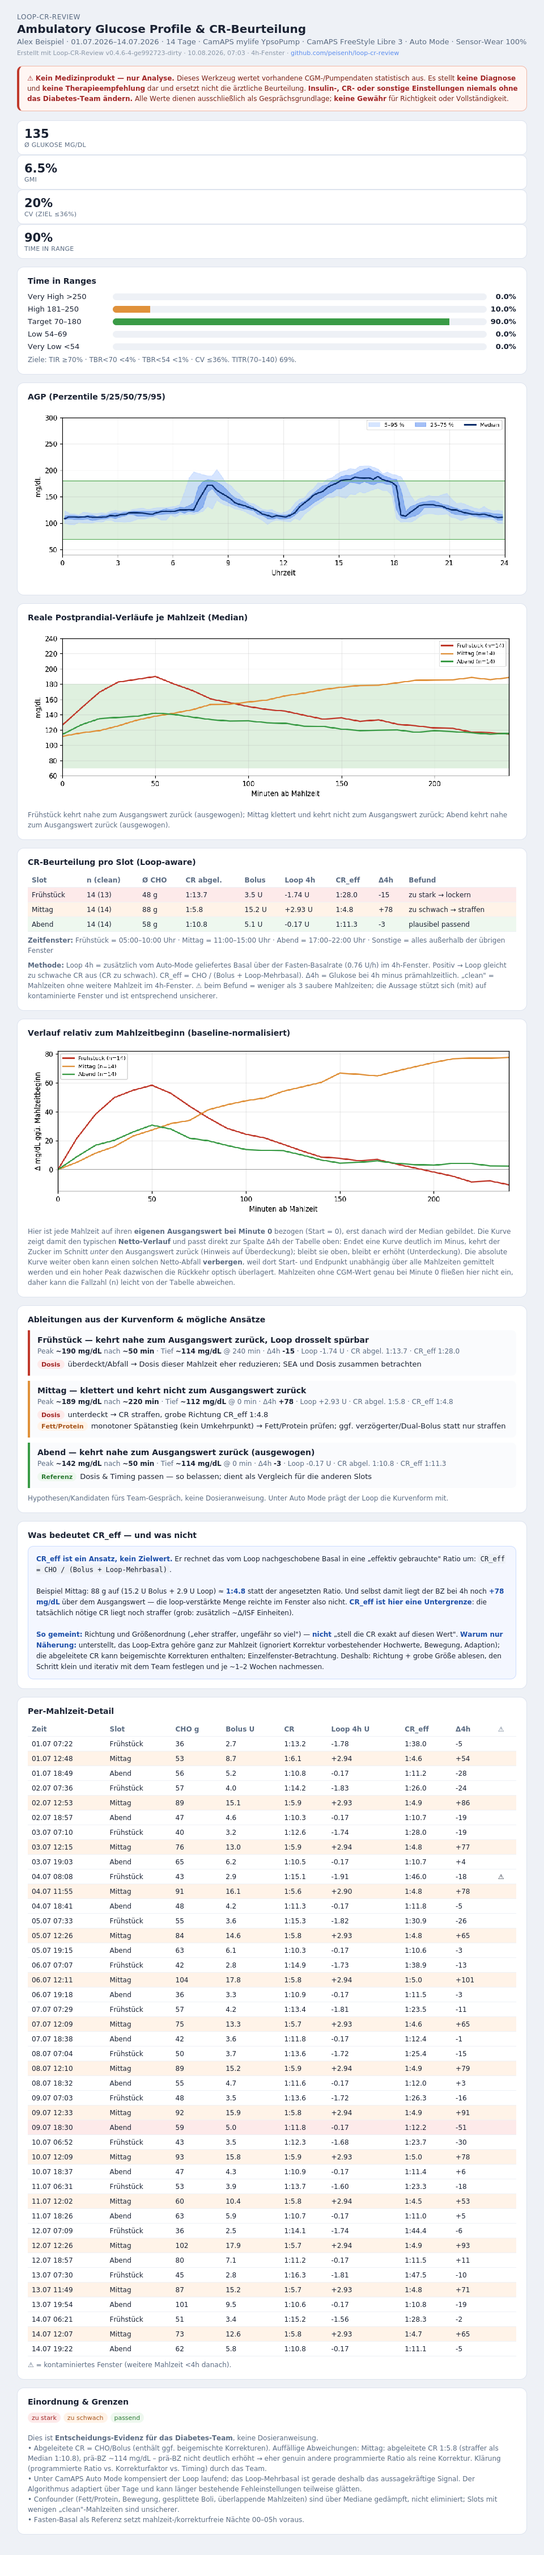
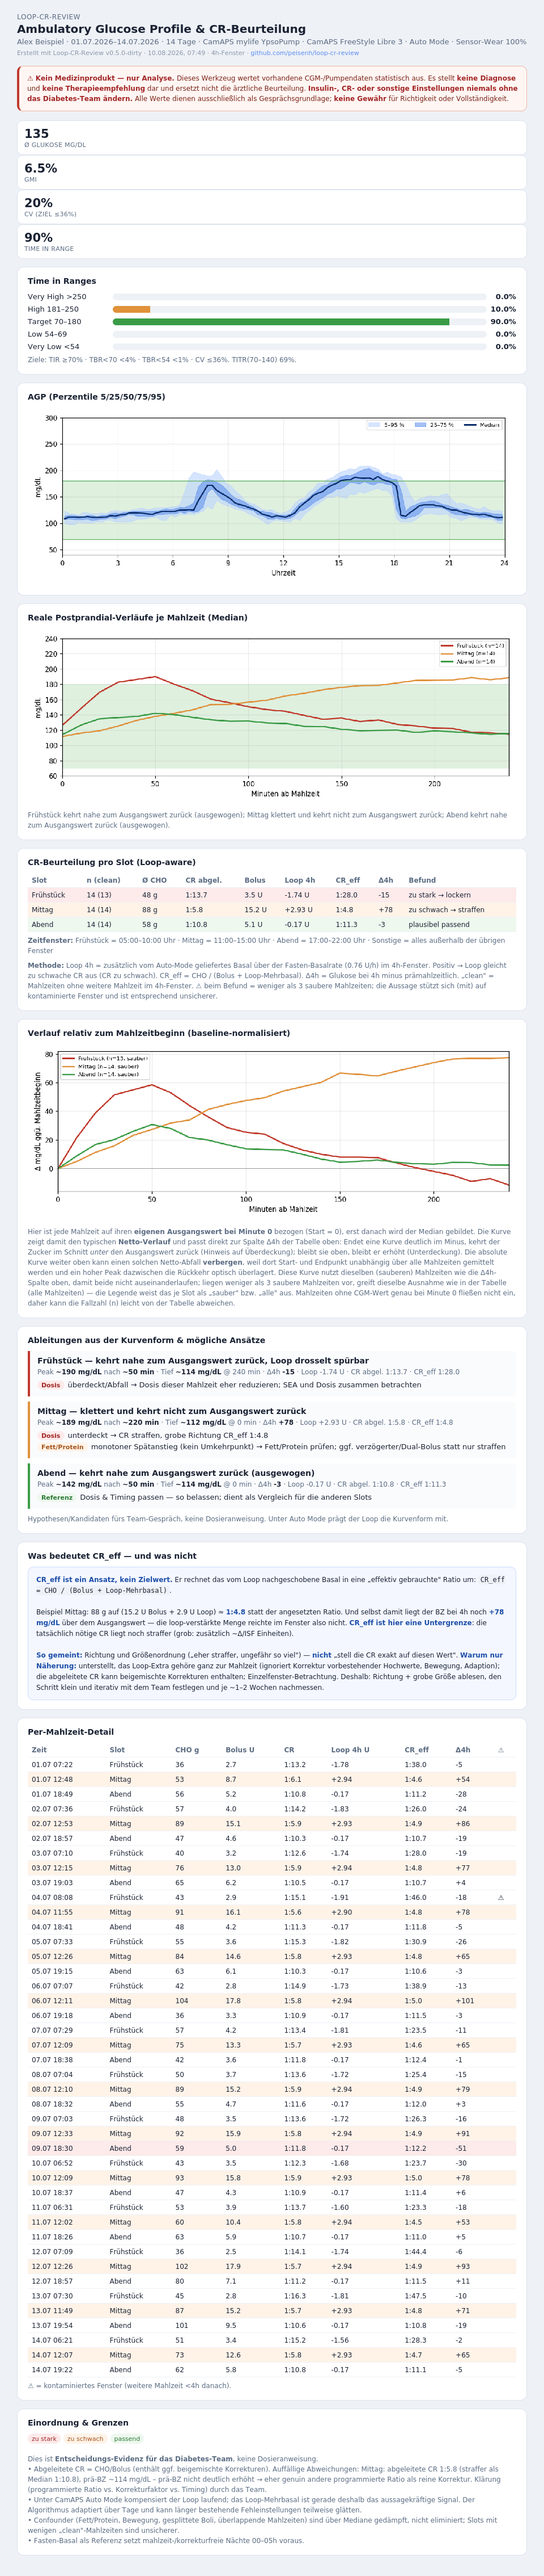
fix: normalized curve matches table's clean meals; legend shows data basis

diff --git a/loop_cr_review.py b/loop_cr_review.py
@@ -419,20 +419,27 @@ def slot_median_curve(meals, slot, window, val_at):
     return np.nanmedian(np.array(stacks), axis=0) if stacks else None
 
 
-def slot_norm_curve(meals, slot, window, val_at):
+def slot_norm_curve(meals, slot, window, val_at, clean_times=None):
     """Baseline-normalisierte Median-Kurve eines Slots (Start je Mahlzeit = 0).
 
     Jede Einzelmahlzeit wird auf ihren eigenen Ausgangswert bei t=0 bezogen,
     DANN wird der Median gebildet. Dadurch zeigt die Kurve den typischen Verlauf
     RELATIV zum Mahlzeitbeginn -- anders als die absolute Median-Kurve, deren
     Start und Ende unabhaengig aggregiert werden und einen echten Netto-Abfall
-    (Δ4h) verschlucken koennen. Mahlzeiten ohne Startwert (kein CGM bei t=0)
-    fallen raus. Rueckgabe: (kurve oder None, n verwendete Mahlzeiten).
+    (Δ4h) verschlucken koennen.
+
+    clean_times: optionale Menge von Mahlzeit-Startzeitpunkten. Wenn gesetzt,
+    werden NUR diese Mahlzeiten verwendet -- so nutzt die Kurve dieselbe
+    (kontaminationsbereinigte) Datengrundlage wie die Δ4h-Spalte der Tabelle und
+    kann ihr nicht widersprechen. Mahlzeiten ohne Startwert (kein CGM bei t=0)
+    fallen zusaetzlich raus. Rueckgabe: (kurve oder None, n verwendete Mahlzeiten).
     """
     grid = np.arange(0, window + 1, 10)
     rows = []
     for m in meals:
         if slot_of(m["time"].hour) != slot:
+            continue
+        if clean_times is not None and m["time"] not in clean_times:
             continue
         row = np.array([val_at(m["time"], int(g), 6) for g in grid], dtype=float)
         if np.isnan(row[0]):
@@ -607,21 +614,32 @@ def slot_curves_chart(meals, window, val_at):
     return fig_to_b64(fig)
 
 
-def slot_norm_curves_chart(meals, window, val_at):
+def slot_norm_curves_chart(meals, window, val_at, by_slot):
     """Baseline-normalisierte Median-Kurven je Slot als base64-PNG.
 
     Zeigt den Verlauf relativ zum Mahlzeitbeginn (Start = 0), macht damit den
     typischen Netto-Abfall/-Anstieg (Δ4h) sichtbar, den die absolute Kurve
-    verschlucken kann.
+    verschlucken kann. Nutzt pro Slot dieselbe kontaminationsbereinigte
+    Mahlzeitenauswahl wie die Δ4h-Tabelle (nur saubere Mahlzeiten; Fallback auf
+    alle, falls weniger als 3 saubere vorliegen), damit Kurve und Tabelle nicht
+    auseinanderlaufen.
     """
     grid = np.arange(0, window + 1, 10)
     fig, ax = plt.subplots(figsize=(10, 3.6))
     ax.axhline(0, color="#888", lw=1)
     for slot in MAIN_SLOTS:
-        curve, n = slot_norm_curve(meals, slot, window, val_at)
+        srows = by_slot.get(slot, [])
+        clean = [r for r in srows if not r["contam"]]
+        used = clean if len(clean) >= 3 else srows
+        clean_times = {r["time"] for r in used}
+        curve, n = slot_norm_curve(meals, slot, window, val_at, clean_times)
         if curve is not None:
+            # transparent machen, ob n saubere Mahlzeiten sind oder (Fallback bei
+            # weniger als 3 sauberen) alle -- sonst wirkt die Legende widerspruechlich
+            # zur "clean"-Spalte der Tabelle.
+            basis = "sauber" if len(clean) >= 3 else "alle"
             ax.plot(grid, curve, color=SLOT_COLOR[slot], lw=2,
-                    label=f"{SLOT_LABEL[slot]} (n={n})")
+                    label=f"{SLOT_LABEL[slot]} (n={n}, {basis})")
     ax.set_xlim(0, window)
     ax.set_xlabel("Minuten ab Mahlzeit")
     ax.set_ylabel("Δ mg/dL ggü. Mahlzeitbeginn")
@@ -821,7 +839,7 @@ def build_context(base, window, wlab, daily=False):
         "tir_bands": [{"label": lab, "val": f"{val:.1f}", "width": f"{min(val, 100):.1f}",
                        "color": col} for lab, val, col in tir_bands],
         "agp_img": agp_chart(times, gluc), "slot_img": slot_curves_chart(meals, window, val_at),
-        "slot_norm_img": slot_norm_curves_chart(meals, window, val_at),
+        "slot_norm_img": slot_norm_curves_chart(meals, window, val_at, by_slot),
         "daily_days": daily_charts(times, gluc, read_bolus_events(base), basal,
                                    read_tdd(base)) if daily else [],
         "curve_cap": curve_cap, "slots": _slots_context(by_slot), "meals": _meals_context(rows),

diff --git a/CHANGELOG.md b/CHANGELOG.md
@@ -7,6 +7,16 @@ das Projekt folgt [Semantic Versioning](https://semver.org/lang/de/).
 > Kein Medizinprodukt — nur Analyse. Keine Diagnose, keine Therapieempfehlung.
 
 ## [Unreleased]
+### Behoben
+- Baseline-normalisierte Kurve nutzt jetzt dieselbe kontaminationsbereinigte
+  Mahlzeitenauswahl wie die Δ4h-Spalte der Tabelle (nur saubere Mahlzeiten,
+  Fallback auf alle bei weniger als 3 sauberen). Vorher bezog die Kurve auch
+  kontaminierte Mahlzeiten ein und konnte der Tabelle dadurch widersprechen —
+  z. B. ein Slot mit „passend"-Befund, dessen Kurve tiefer abfiel als ein als
+  „zu stark" bewerteter Slot. Die Legende der normalisierten Kurve weist jetzt
+  je Slot aus, ob n saubere Mahlzeiten sind („sauber") oder — bei aktivem
+  Fallback — alle („alle"), damit sie nicht widersprüchlich zur „clean"-Spalte
+  der Tabelle wirkt.
 
 ## [0.5.0] - 2026-08-10
 ### Neu
